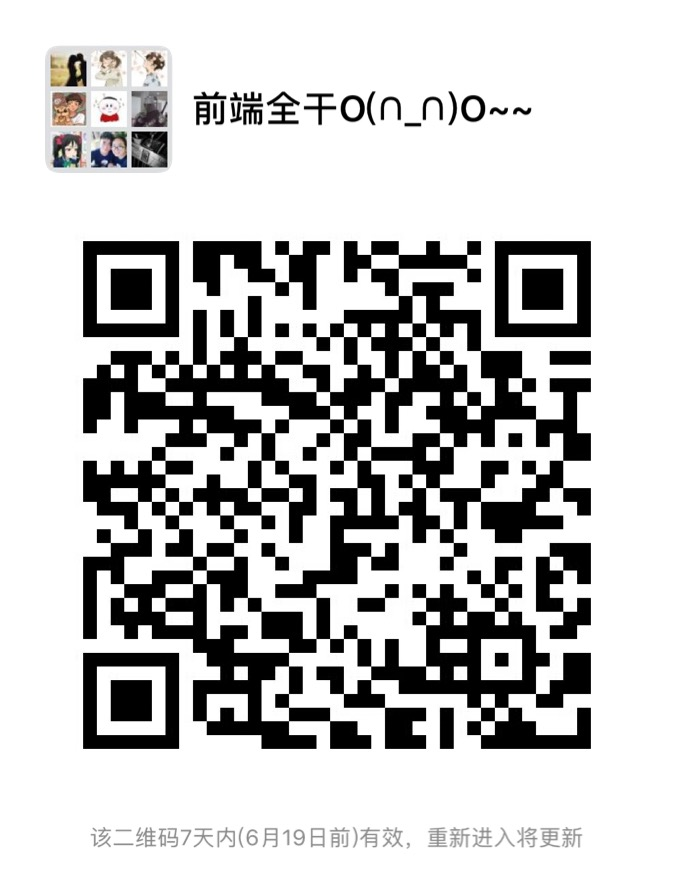
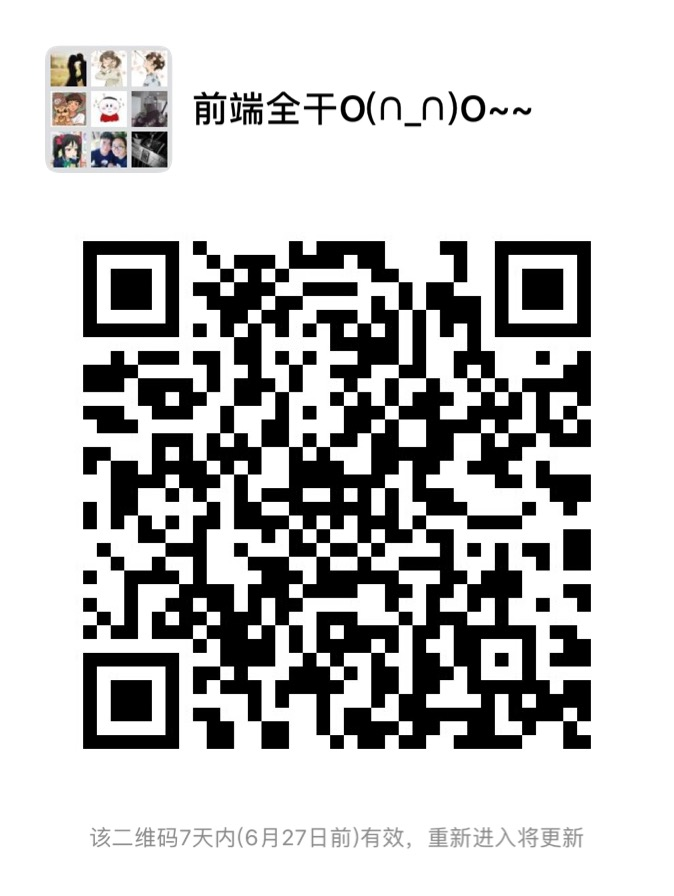
update article and wx-group qrcode

diff --git a/index.html b/index.html
@@ -82,6 +82,11 @@
         【全方位Node开发】使用 Node 创建 RESTful API 服务
       </p>
     </a>
+    <a href="https://mp.weixin.qq.com/s/3XAAw48g5pd-XIVodI8DrA" target="_blank">
+      <p class="link-p">
+        【全方位Node开发】Express 中间件、环境和配置
+      </p>
+    </a>
     <div class="wechat-public ">
       <div class=" qrcode center-block">
         <p>前端全干O(∩_∩)O~~微信群</p>
